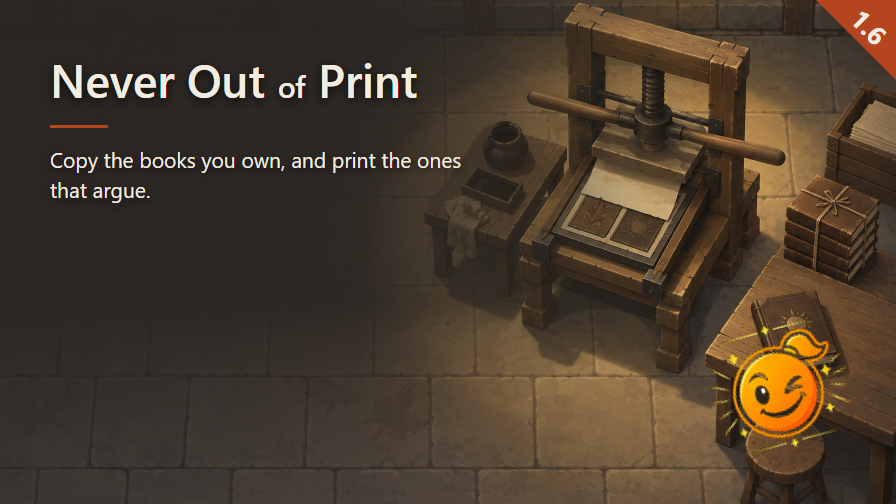
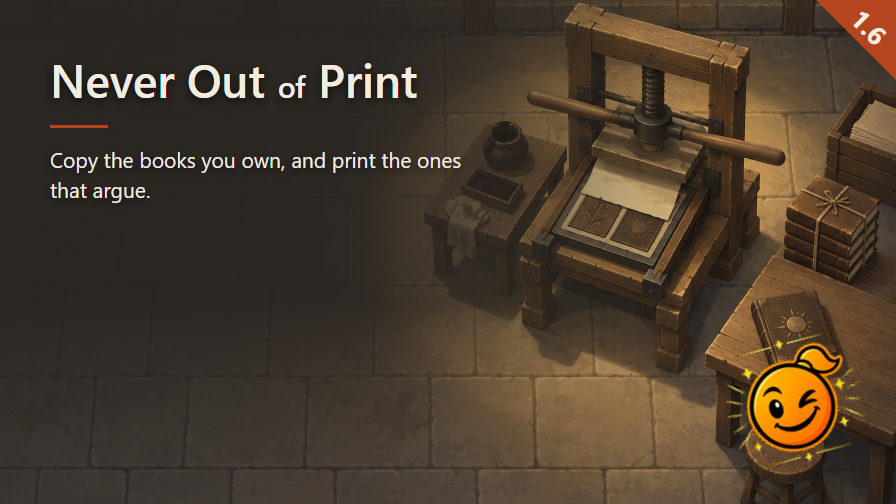
Preview stamp: flood-fill cutout, tighter corner margin
Two defects caught by the owner in the corner-stamp: the global colour-
distance cutout also erased the icon's own dark facial linework (eye,
smile) since it sat in the same distance band as the background, and the
stamp floated too far from the corner (24px margin). Replaced with a
border flood-fill so only background actually connected to the edge is
cut, and tightened the margin to 10px.

Changed region(s): [[0.7812, 0.625, 0.9688, 0.9226]]

diff --git a/STATUS.md b/STATUS.md
@@ -25,6 +25,7 @@ remaining:
   - dependency: Art/compose-preview.cjs needs playwright + sharp; package.json added at repo root (matches the pattern in AnimalsNaturally/MintchocoConfectionery), node_modules/ gitignored. Not yet run against a live in-game screenshot for camera/lighting fidelity (AUDIT.md treats this as a review method, not a blocking requirement, when no camera defect is visible on inspection — none was).
   - resolved 2026-09-29: applied the owner's new corner-stamp rule (STYLE_RIMWORLD.md, "Le ModIcon détouré sur la vitrine") — Preview.png now also carries ModIcon.png, cutout from its near-black background by a colour-distance alpha threshold (no ImageMagick), tilted -15° and composited bottom-right (the corner the text block does not occupy), wired into Art/compose-preview.cjs so it reproduces on regeneration. Fixed a bug in the same edit: the script was re-reading the already-overlaid Mod/About/Preview.png as its background source instead of the clean Art/Preview.png, which would have compounded text on every re-run — now reads Art/Preview.png. Art/Preview.ico rebuilt from the final stamped file. Also applied the owner's screenshot-0 rule (PUBLISHING.md, already documented there 2026-09-29): Art/Gallery/00-Preview.png is a byte-copy of the final Preview.png.
   - note: RECOMPOSER_PREVIEW.md (the copy-paste prompt mirroring STYLE_RIMWORLD.md's surcouche section) was read once this session, then found deleted from disk later the same session — untracked in this repo (protocols left the monorepo, per commit 90d51374), no git trail here. Not recreated blind; the corner-stamp rule was written directly into STYLE_RIMWORLD.md instead, which stays authoritative regardless.
+  - resolved 2026-09-29: fixed two defects the owner caught by eye in the first corner-stamp render. (1) The colour-distance cutout was global, so the icon's own near-black facial linework (the winking eye, the smile) fell inside the same distance band as the background and was cut transparent too — invisible on the dark left-side veil, but a real hole once composited over the lighter floor on the right. Replaced with a border flood-fill: only background pixels reachable from the image edge are cut, so interior dark linework stays opaque regardless of its colour distance from the background. (2) The stamp sat too far from the corner (24px margin) with too much bare floor beside it; margin reduced to 10px. Both fixes are in Art/compose-preview.cjs, reproducible on regeneration.
   - resolved 2026-09-29: workflow_stage advanced horsMonoRepo -> ModIcon générée -> Preview générée -> preOptions -> options -> l10n in one step. Each of preOptions/options/l10n is asserted from source inspection, not a running game (no settings class, no MainButtonDef, all Keyed/DefInjected coverage checked by Check-DefInjected.ps1, 33 keys, 0 errors) — AUDIT.md's "stage jamais bloqué par le jeu" treats that as sufficient to advance, since no defect was found; the in-game exercise itself stays open below, under l10n -> preTest.
   - unverified: l10n -> preTest: modDependencies is empty by design (VBE is an optional compat, not a hard dependency — loadAfter only), which needs to be re-confirmed against MOD_SETTINGS.md/PUBLISHING.md wording once the mod is actually loaded in a game with and without VBE present. Options/l10n themselves also not yet exercised in a running game.
   - unverified: preTest -> done: no automated XML/offline test harness written yet (no equivalent of ManureComposting's test_resources.py); no Tests/Pickle/ suite written yet, so its absence is not yet justified in TESTING.md as AUDIT.md requires — TESTING.md exists as a skeleton only.
